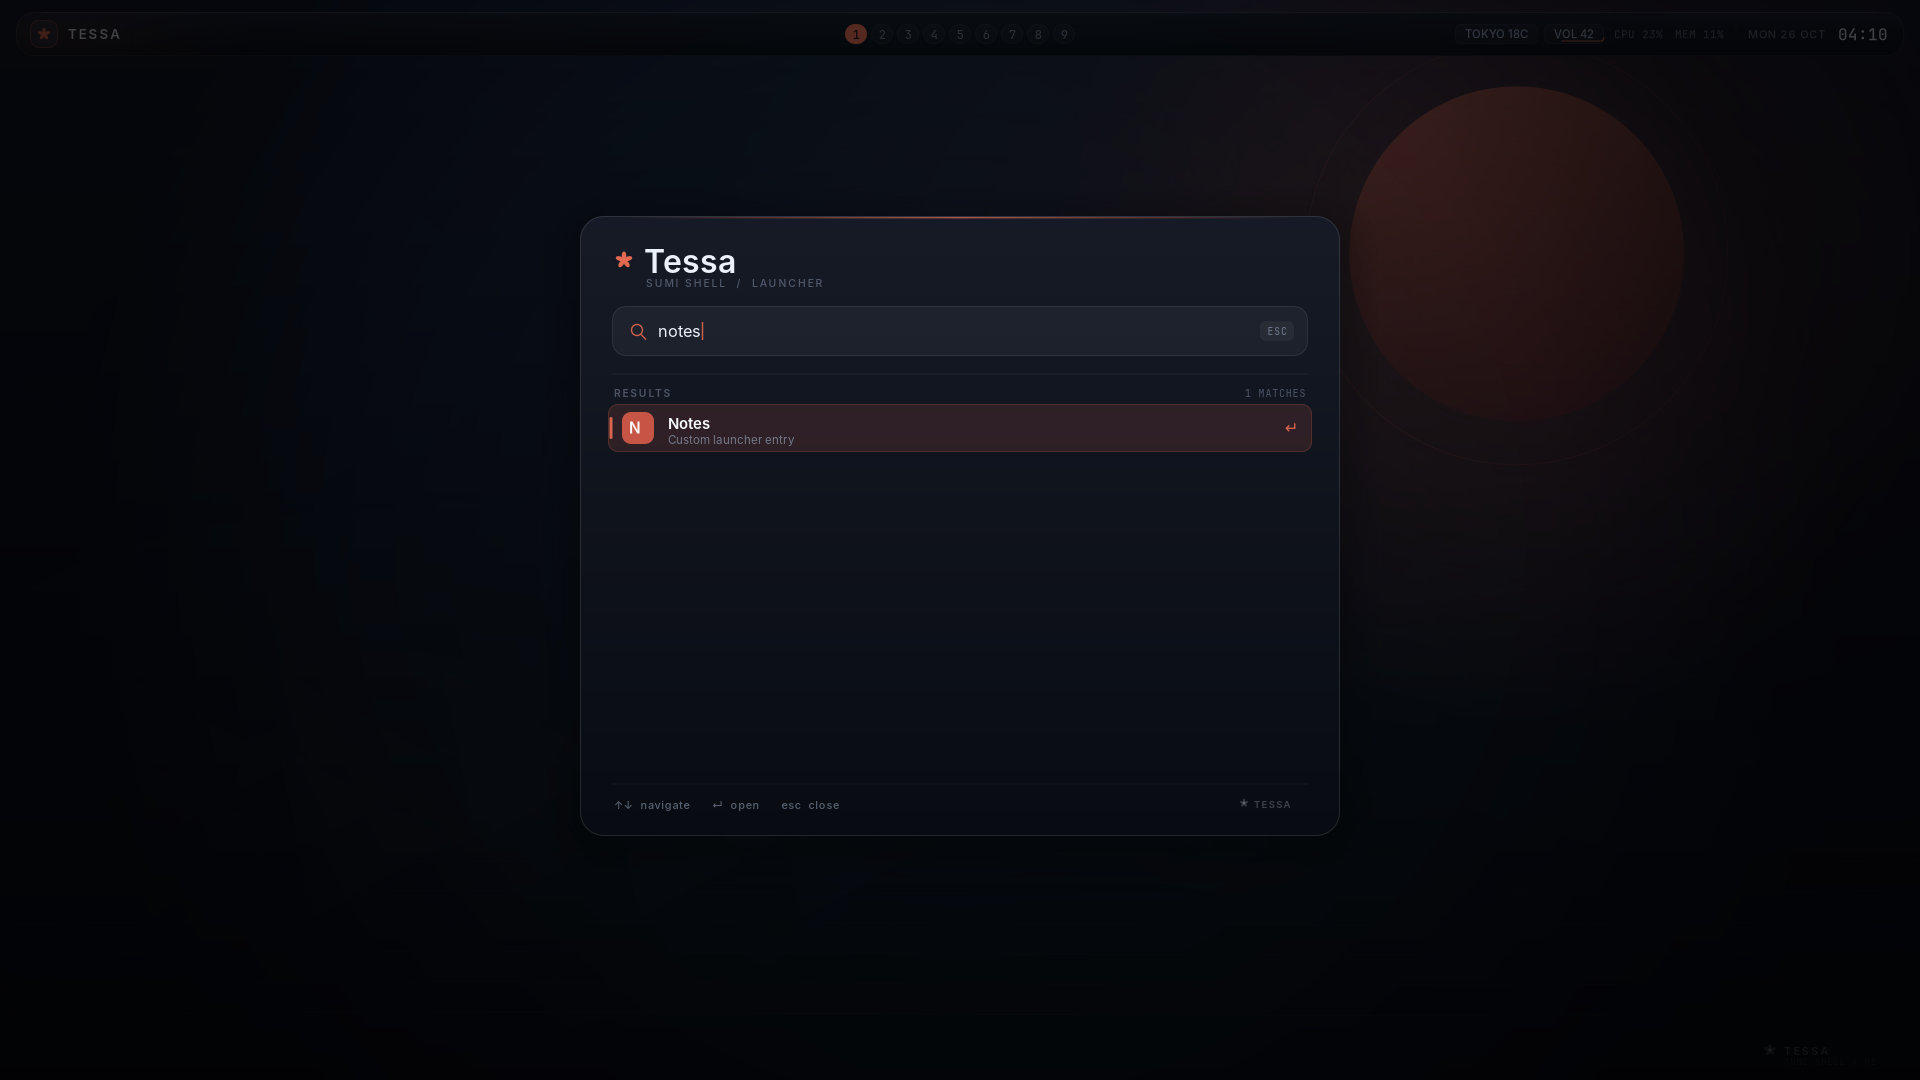
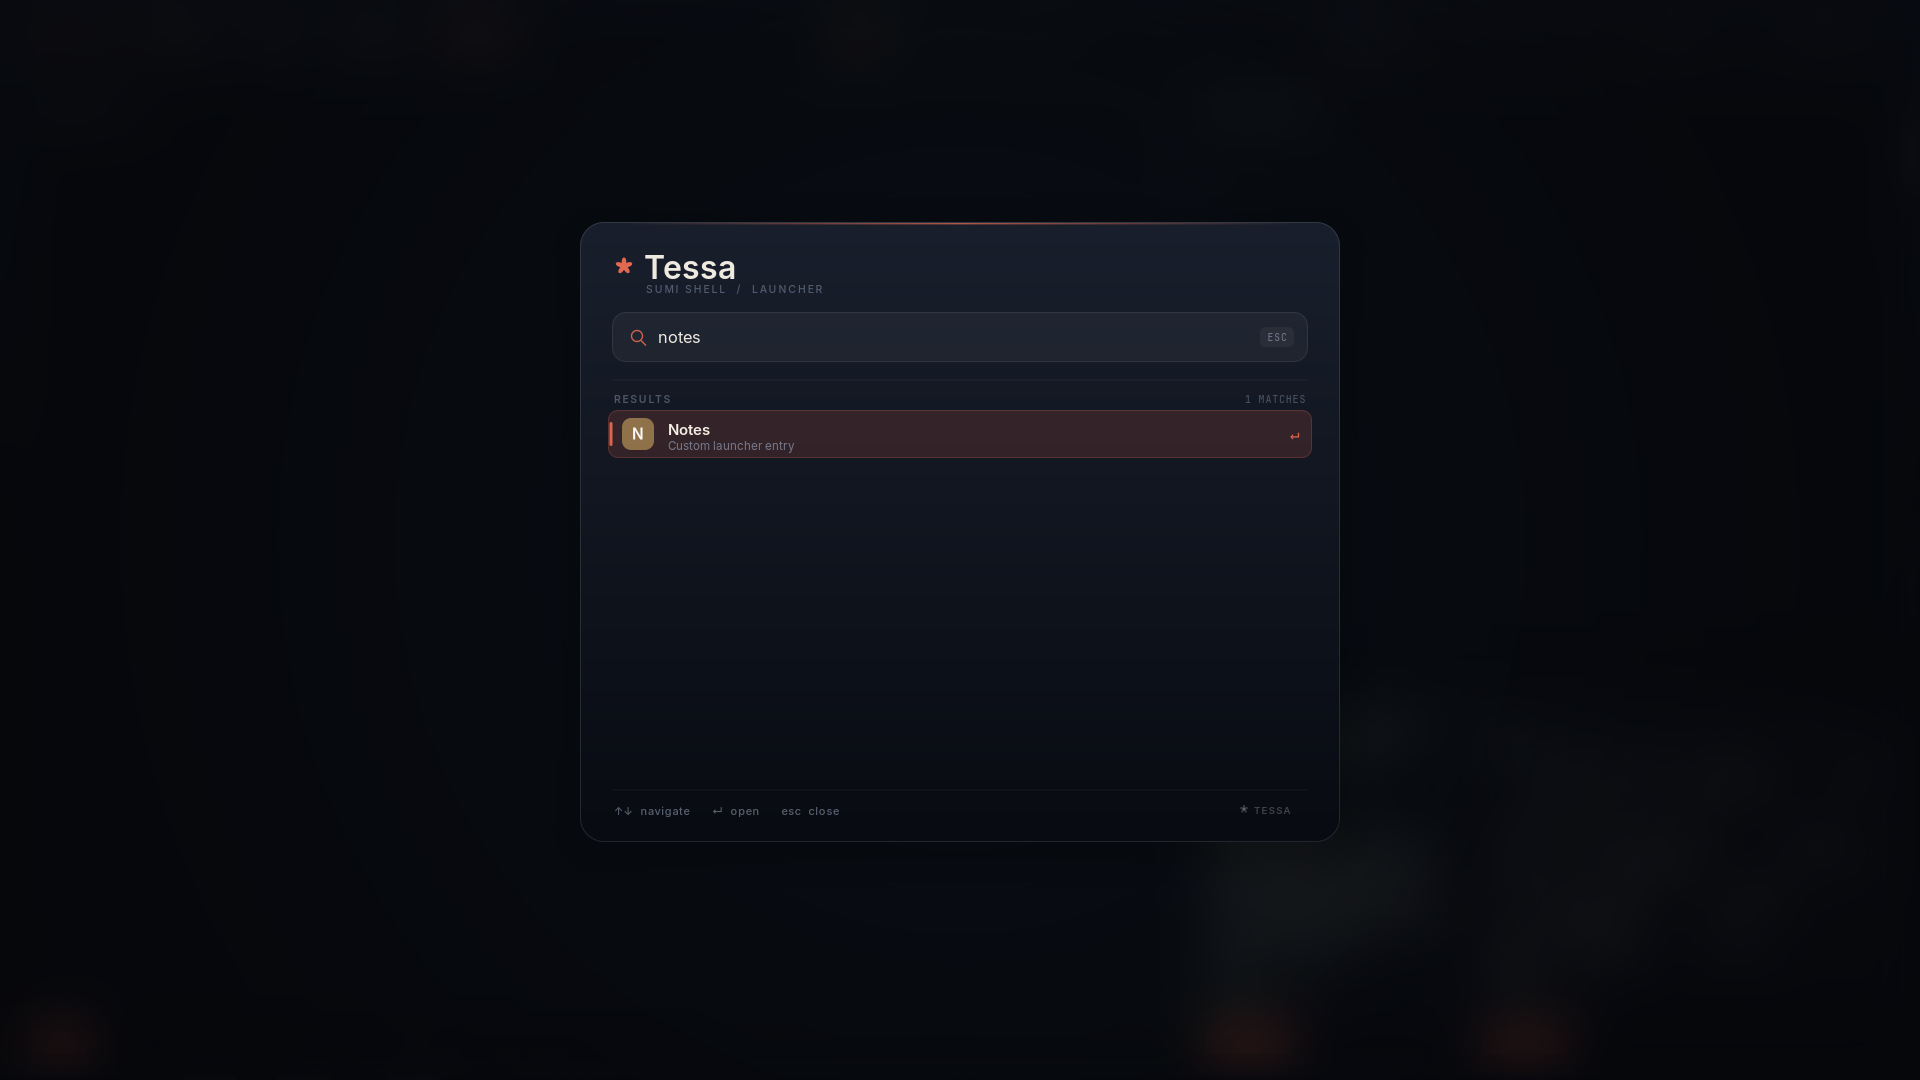
docs: refresh screenshots for current panel and layouts

diff --git a/README.md b/README.md
@@ -16,10 +16,13 @@ required, but layer-shell-compatible external bars and launchers can replace it.
 
 ![Tessa mosaic layout](docs/images/mosaic.png)
 
+![Tessa unified control center](docs/images/control-center.png)
+
 ![Tessa launcher](docs/images/launcher.png)
 
-The screenshots above are from a headless development session, using foot as the
-terminal.
+The screenshots above are from a headless development session using kitty and
+the Vermilion Ink palette. The control center uses demo NetworkManager and
+BlueZ services, so no real Wi-Fi SSID or Bluetooth device is shown.
 
 For a single end-to-end reference covering build, installation, every config
 key, rules, effects, IPC, events, and hooks, see the

diff --git a/docs/EXTENDING.md b/docs/EXTENDING.md
@@ -16,7 +16,7 @@ The socket is created with mode `0600` under `$XDG_RUNTIME_DIR` (normally
 `tessa.sock`). The same user can run any command through the API, exactly as if
 they had run it in a terminal.
 
-![External status entries and a custom launcher entry](images/extensions.png)
+![A custom launcher entry defined in the config](images/extensions.png)
 
 ## tessa-ctl
 
